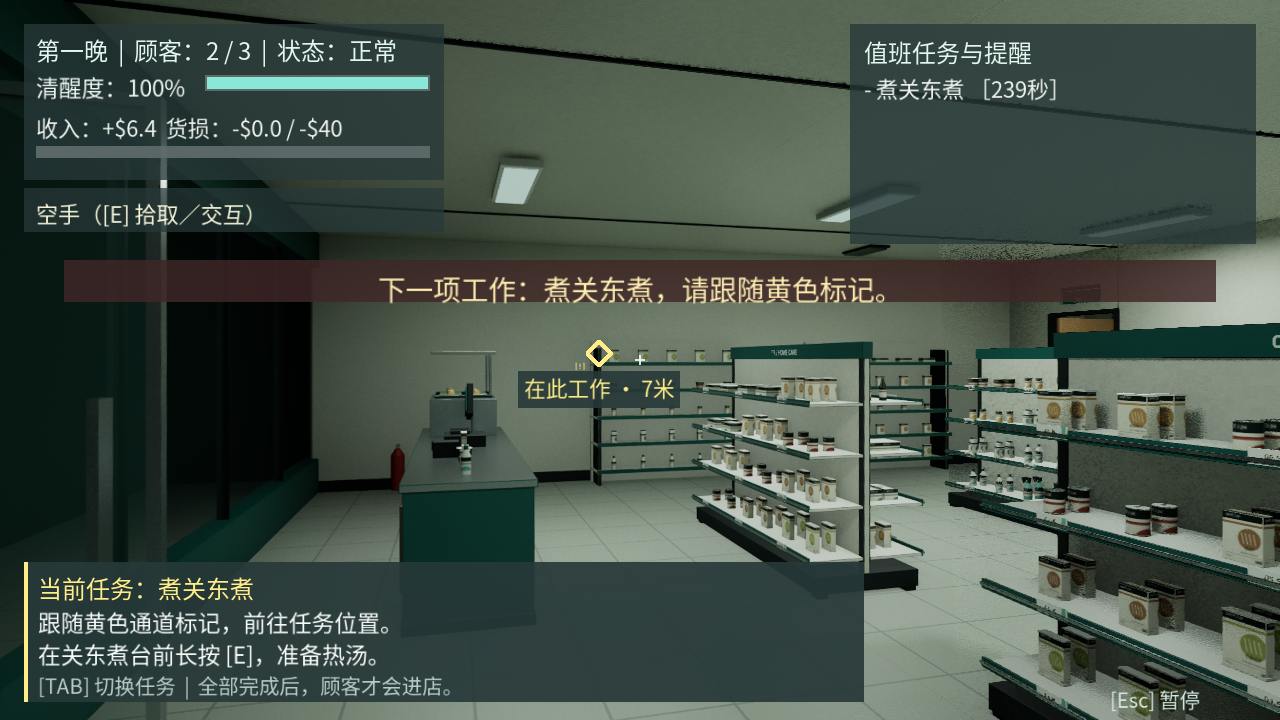
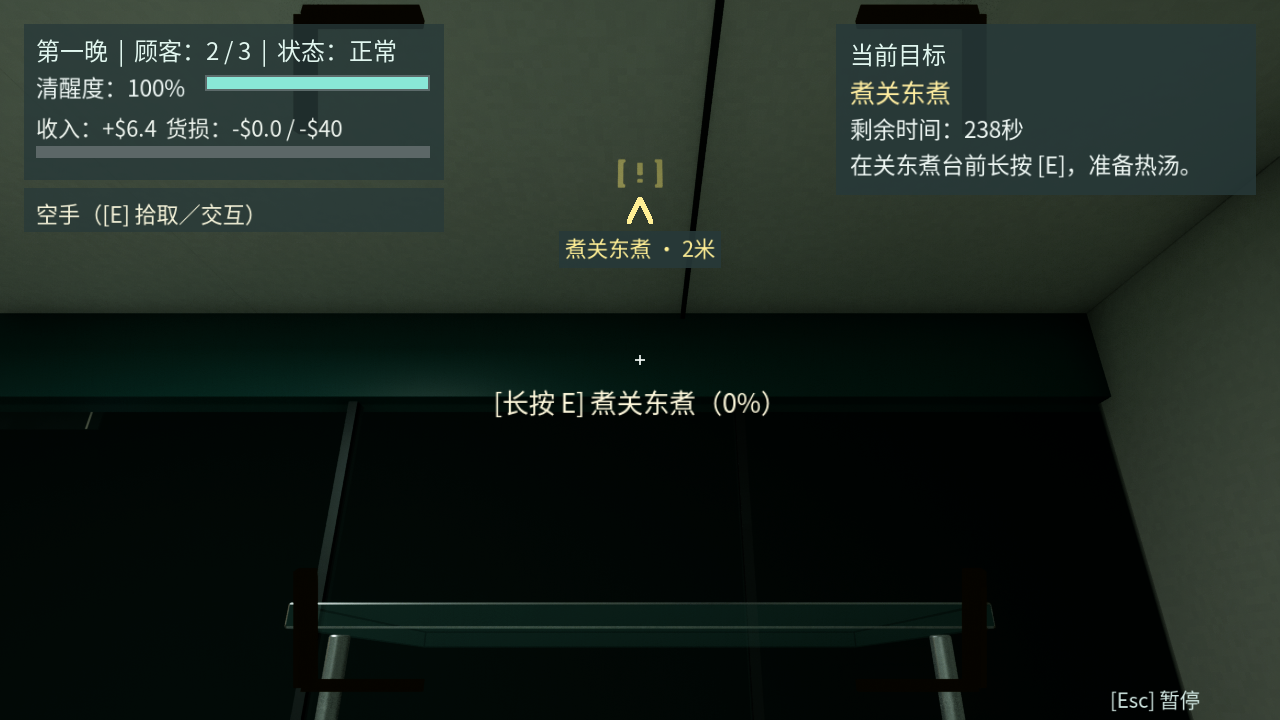
Move oden cooking interaction above the glass cover

diff --git a/Source/ShiftStore/ShiftStoreSelfTest.cpp b/Source/ShiftStore/ShiftStoreSelfTest.cpp
@@ -11,6 +11,7 @@
 #include "InputKeyEventArgs.h"
 #include "Components/RectLightComponent.h"
 #include "Components/SkeletalMeshComponent.h"
+#include "Components/SphereComponent.h"
 #include "Engine/StaticMesh.h"
 #include "EngineUtils.h"
 #include "Kismet/GameplayStatics.h"
@@ -226,11 +227,28 @@ void AShiftStoreGameMode::TickSelfTest(float DeltaSeconds)
 		if (!CheckSelfTest(TEXT("service_finish_callback_is_idempotent"), CustomersServed == 2)) { return; }
 		if (!CheckSelfTest(TEXT("second_service_assigns_only_oden"), ActiveTasks.Num() == 1 && ActiveTasks[0]->Type == EShiftTaskType::CookOden)) { return; }
 		SelfTestCookTarget = ActiveTasks[0];
+		AActor* OdenStation = nullptr;
+		for (TActorIterator<AActor> It(GetWorld()); It; ++It)
+		{
+			if (It->ActorHasTag(TEXT("Interactive.Oden"))) { OdenStation = *It; break; }
+		}
+		FVector OdenOrigin = FVector::ZeroVector, OdenExtent = FVector::ZeroVector;
+		if (OdenStation) { OdenStation->GetActorBounds(false, OdenOrigin, OdenExtent); }
+		if (!CheckSelfTest(TEXT("oden_interaction_above_glass_cover"), OdenStation
+			&& FVector::Dist2D(SelfTestCookTarget->GetActorLocation(), OdenOrigin) < 1.f
+			&& SelfTestCookTarget->GetActorLocation().Z - SelfTestCookTarget->Hitbox->GetScaledSphereRadius() > OdenOrigin.Z + OdenExtent.Z)) { return; }
 		AShiftPlayerCharacter* Player = Cast<AShiftPlayerCharacter>(UGameplayStatics::GetPlayerPawn(this, 0));
+		const FVector CustomerView(OdenOrigin.X, OdenOrigin.Y + 120.f, 166.f);
+		const FVector CustomerRay = (SelfTestCookTarget->GetActorLocation() - CustomerView).GetSafeNormal();
+		FHitResult OdenHit;
+		FCollisionQueryParams OdenQuery(TEXT("OdenCustomerInteraction"), false, Player);
+		const bool bOdenHit = GetWorld()->SweepSingleByChannel(OdenHit, CustomerView, CustomerView + CustomerRay * 265.f,
+			FQuat::Identity, ECC_Visibility, FCollisionShape::MakeSphere(14.f), OdenQuery);
+		if (!CheckSelfTest(TEXT("oden_interaction_clear_from_customer_side"), bOdenHit && OdenHit.GetActor() == SelfTestCookTarget.Get())) { return; }
 		Player->SetActorLocation(FVector(1250.f, 50.f, 100.f));
-		const TArray<FVector> CookRoute = ShiftGuidance::FindRoute(GetWorld(), Player, SelfTestCookTarget.Get(), SelfTestCookTarget->GetActorLocation()).Waypoints;
-		if (!CheckSelfTest(TEXT("oden_route_from_cashier_side_exists"), !CookRoute.IsEmpty())) { return; }
-		Player->SetActorLocation(CookRoute.Last());
+		const FShiftRouteResult CookRoute = ShiftGuidance::FindRoute(GetWorld(), Player, SelfTestCookTarget.Get(), SelfTestCookTarget->GetActorLocation());
+		if (!CheckSelfTest(TEXT("oden_route_from_cashier_side_exists"), CookRoute.Status != EShiftRouteStatus::Unreachable)) { return; }
+		if (!CookRoute.Waypoints.IsEmpty()) { Player->SetActorLocation(CookRoute.Waypoints.Last()); }
 		Player->GetController()->SetControlRotation((SelfTestCookTarget->GetActorLocation() - Player->FirstPersonCamera->GetComponentLocation()).Rotation());
 		bSelfTestInteractPressed = false;
 		AdvanceSelfTest(ESelfTestStage::CookService);

diff --git a/Source/ShiftStore/ShiftStoreGameMode.cpp b/Source/ShiftStore/ShiftStoreGameMode.cpp
@@ -13,6 +13,7 @@
 #include "EngineUtils.h"
 #include "Kismet/GameplayStatics.h"
 #include "Components/AudioComponent.h"
+#include "Components/SphereComponent.h"
 #include "Components/TextRenderComponent.h"
 #include "Sound/SoundWaveProcedural.h"
 #include "Misc/FileHelper.h"
@@ -394,6 +395,18 @@ void AShiftStoreGameMode::SpawnTaskFromSpot(int32 SpotIdx)
 	if (T)
 	{
 		T->Setup(S.Type, S.Label, CurrentNightSpec().TaskTimeLimit);
+		if (S.Type == EShiftTaskType::CookOden)
+		{
+			for (TActorIterator<AActor> It(GetWorld()); It; ++It)
+			{
+				if (!It->ActorHasTag(TEXT("Interactive.Oden"))) { continue; }
+				FVector Origin, Extent;
+				It->GetActorBounds(false, Origin, Extent);
+				// Keep the whole interaction sphere above the glass cover, clear of its collision.
+				T->SetActorLocation(FVector(Origin.X, Origin.Y, Origin.Z + Extent.Z + T->Hitbox->GetScaledSphereRadius() + 6.f));
+				break;
+			}
+		}
 		ActiveTasks.Add(T);
 	}
 }

diff --git a/Source/ShiftStore/ShiftLocalizationTest.cpp b/Source/ShiftStore/ShiftLocalizationTest.cpp
@@ -241,7 +241,15 @@ void AShiftStoreGameMode::TickLocalizationTest(float DeltaSeconds)
 	}
 	case 30:
 		CheckLocalization(TEXT("service_creates_one_oden_task"), ActiveTasks.Num() == 1 && ActiveTasks[0]->Type == EShiftTaskType::CookOden);
-		PC->SetControlRotation(FRotator(0.f, 15.f, 0.f));
+		if (!ActiveTasks.IsEmpty())
+		{
+			const FVector OdenTaskLocation = ActiveTasks[0]->GetActorLocation();
+			Player->SetActorLocation(FVector(OdenTaskLocation.X, OdenTaskLocation.Y + 120.f, 100.f));
+			PC->SetControlRotation((OdenTaskLocation - (Player->GetActorLocation() + FVector(0.f, 0.f, 66.f))).Rotation());
+		}
+		break;
+	case 31:
+		// Let the capped navigation update catch up with the test-only teleport before capture.
 		Screenshot(TEXT("CookOden"));
 		break;
 	default:

diff --git a/Source/ShiftStore/ShiftTypes.cpp b/Source/ShiftStore/ShiftTypes.cpp
@@ -46,7 +46,7 @@ namespace ShiftData
 			/*7*/ { EShiftTaskType::Trash,   FVector(1500.f, 265.f, 80.f),  TEXT("Empty checkout bin") },
 			/*8*/ { EShiftTaskType::Trash,   FVector(1350.f, 1450.f, 80.f), TEXT("Empty restroom bin") },
 			/*9*/ { EShiftTaskType::Count,   FVector(1070.f, 1450.f, 110.f),TEXT("Sign the shift log") },
-			/*10*/{ EShiftTaskType::CookOden,FVector(1380.f, 300.f, 110.f), TEXT("Prepare hot oden") },
+			/*10*/{ EShiftTaskType::CookOden,FVector(1380.f, 180.f, 220.f), TEXT("Prepare hot oden") },
 		};
 		return List;
 	}

diff --git a/VERIFICATION.md b/VERIFICATION.md
@@ -2,6 +2,14 @@
 
 当前工作区包含 C++ 三晚 MVP、正常／异常环境地图及 Windows 独立包。本轮加入 Esc 暂停菜单；此前的顾客离店、服务间任务轮换、开局指引和早期时间调整继续保留。以下回归结果不能替代完整的人工通关验收。
 
+## 关东煮交互区域（2026-11-17）
+
+- 将煮关东煮任务从旁边通道移到设备玻璃罩正上方。任务生成时按 `Interactive.Oden` 场景模型的实际边界定位：XY 对齐中心，交互球底部高于模型顶面 6 cm；半径仍为 42 cm。默认模型下中心高度约 220.5 cm，指引和高亮自动使用新位置。
+- Windows 独立包 54 项玩法回归通过，新增实际模型边界／交互球位置检查和顾客侧交互射线检查；收银侧可达检查与真实长按 E 六秒完成任务同时通过。预期失败用例为 55 项，只有强制失败项为 false，退出 1；正式存档未变。
+- 简体中文 1280×720 运行截图已核对：关东煮上方能显示并命中“长按 E 煮关东煮”，见 `Previews/Localization/zh-Hans_1280_CookOden.png`。
+- 编辑器编译和 Windows Development 打包成功；本机日志 `Saved/QA/OdenEditorBuild.log`、`EditorBuild.log`、`WindowsPackage.log`。原有夜晚、时限、收益及关东煮热汤杯功能保持原逻辑。
+- 本机 `Builds/Windows/` 已更新，GitHub `v0.2` 发布附件未修改。
+
 ## 游戏内鼠标灵敏度（2026-11-16）
 
 - 暂停菜单新增“鼠标灵敏度”入口。拖动滑条或用左右方向键／A、D 调整，范围 0.10–3.00 倍，步进 0.05；默认 1.00 倍保持原来的鼠标视角速度。提供恢复默认和返回按钮，设置页 Esc 返回暂停菜单，再次 Esc 继续游戏。
@@ -75,7 +83,7 @@
 | --- | --- |
 | 编辑器 C++ 编译 | `Result: Succeeded`；本机日志 `Saved/QA/EditorBuild.log` |
 | Windows 编译、烘焙、打包 | `BUILD SUCCESSFUL`，退出 0；本机日志 `Saved/QA/WindowsPackage.log` |
-| 独立包玩法回归 | 当前 52 项全部通过，退出 0；`Verification/gameplay_selftest.json` |
+| 独立包玩法回归 | 当前 54 项全部通过，退出 0；`Verification/gameplay_selftest.json` |
 | 故意注入失败 | 其余检查通过，`forced_failure=false`、总体 `passed=false`，退出 1；`Verification/gameplay_selftest_failure.json` |
 | 正式存档保护 | 正、反两次用例均核对正式存档内容；外部脚本另核对已知存档位置的 SHA-256，均未改变 |
 | 测试存档清理 | 正、反两次用例均确认专用存档槽已删除 |

diff --git a/Docs/ONBOARDING.md b/Docs/ONBOARDING.md
@@ -28,3 +28,5 @@
 顾客结账后使用经过碰撞检查的通道路线离店，绕开收银台。移动时由 CharacterMovement 统一控制转向；遇到暂时挡路会等待重试。顾客实际走到店外后才结束接待，不再用固定超时消失来掩盖卡路。
 
 服务后只安排一项任务：整理货架与准备关东煮轮换，累计三笔正常消费才安排一次批量补货。怪物驱离不算正常消费；最后一位顾客离店后直接进入清理阶段。关东煮任务在台前长按 E 六秒完成，沿用任务计时、清醒度恢复和黄色指引。
+
+关东煮任务的交互区域位于设备玻璃罩正上方，指引与高亮同步指向这里。生成任务时按场景中关东煮台的实际边界定位，保留 42 cm 半径，并让交互球底部高于罩顶 6 cm，避免被设备碰撞遮挡；不再放在旁边通道中。
